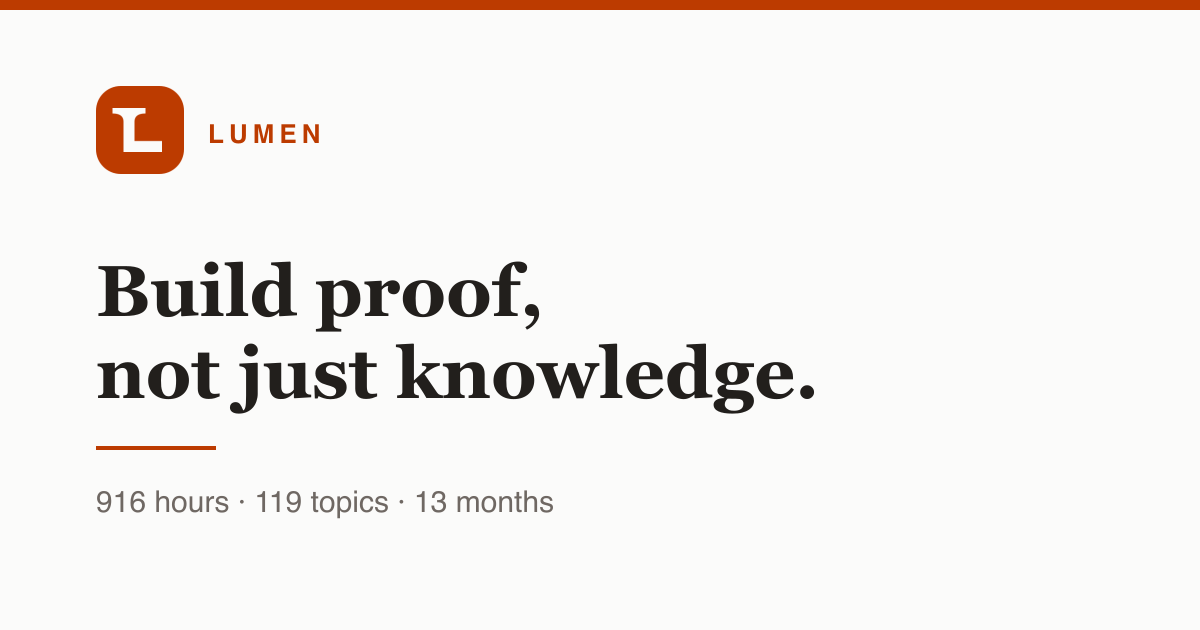
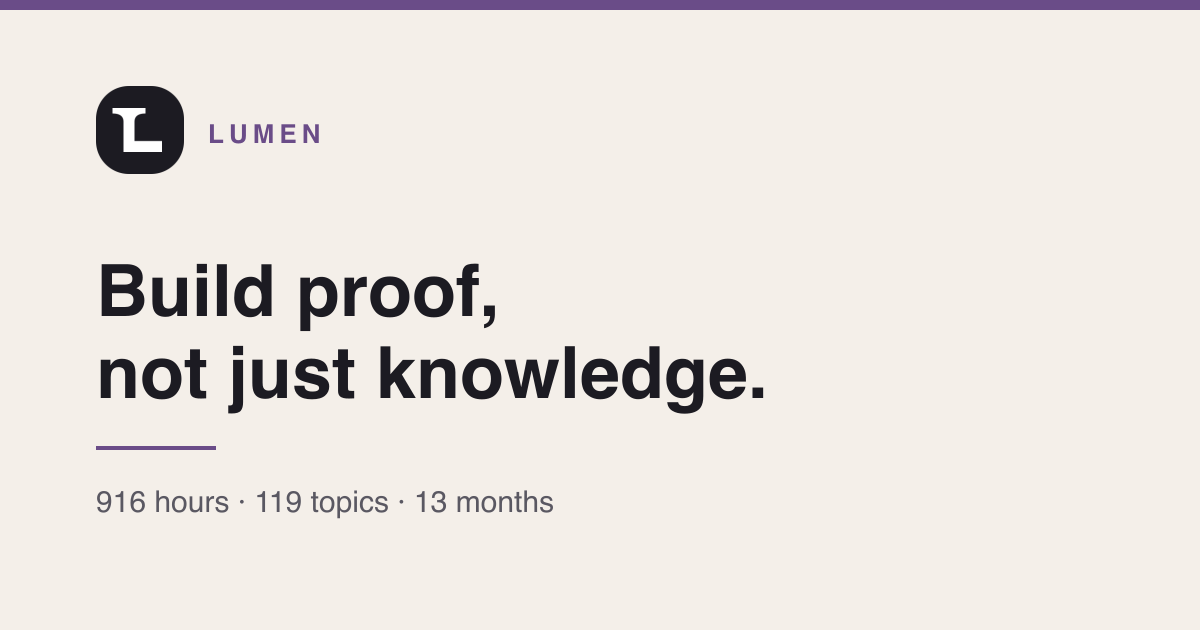
feat: switch the design system to Sorbet Tonal; full-height Ask panel
Replaces Ember Studio with Sorbet Tonal per Rasul's request. Four desaturated blobs —
lavender, peach, seafoam, cream — over a cream base, with pure paper-white cards on top;
the contrast between the soft canvas and the bright cards is the whole design. One
family (Manrope) with JetBrains Mono on eyebrows, metadata and table numerals. Mauve is
the only chromatic accent. Token names are unchanged so the ~200 existing rules keep
working; only the values move.

The gradient is painted on a fixed pseudo-element rather than as a body background: this
page runs to ~13,000px and a gradient sized to the document stretches the blobs to
invisibility. That also means body must stay transparent — an opaque background there
paints straight over the z-index:-1 layer and the gradient vanishes entirely, which is
exactly what happened on the first pass.

Ask Lumen is now a full-height right rail. It was pinned to max-height:600px, so on a
tall display it sat as a small box in the corner with two thirds of the reserved gutter
empty, while the shell was already reserving 478px for it.

Four departures from the Sorbet spec, all recorded in .impeccable.md:

- three colours darkened for AA. The spec grades its own accent-on-canvas FAIL (2.74:1)
  and suggests #7c5d9c, but that was measured on flat #F4EFE9. A gradient canvas has no
  single background: its darkest composited pixel is rgb(217,205,227), the lavender
[…]

diff --git a/app/globals.css b/app/globals.css
@@ -1,5 +1,17 @@
-@import url('https://fonts.googleapis.com/css2?family=Petrona:ital,wght@0,400..700;1,400&family=Source+Sans+3:wght@400;600&family=Fira+Code:wght@400&display=swap');
-:root{--bg:oklch(.985 .001 106.4);--surface:oklch(.970 .001 106.4);--surface-strong:oklch(.923 .003 48.7);--ink:oklch(.216 .006 56);--ink-2:oklch(.444 .010 73.6);--muted:oklch(.518 .012 58.1);--line:oklch(.869 .004 56.4);--line-strong:oklch(.611 .004 56.4);--primary:oklch(.535 .174 38.4);--primary-hover:oklch(.470 .143 37.3);--primary-soft:oklch(.94 .035 40);--accent:oklch(.769 .165 70.1);--accent-text:oklch(.520 .145 70.1);--teal:oklch(.498 .150 149.2);--brass:oklch(.522 .145 58.3);--danger:oklch(.538 .190 27.3);--sp-1:4px;--sp-2:8px;--sp-3:12px;--sp-4:16px;--sp-5:20px;--sp-6:24px;--sp-8:32px;--sp-10:40px;--sp-12:48px;--sp-16:64px;--r-sm:4px;--r-md:8px;--r-lg:12px;--r-pill:9999px;--shadow-card:0 4px 16px rgba(28,25,23,.06);--shadow-cta:0 4px 12px rgba(194,65,12,.25)}
+@import url('https://fonts.googleapis.com/css2?family=Manrope:wght@400;500;600;700&family=JetBrains+Mono:wght@400;500&display=swap');
+/* SORBET TONAL. Token names are unchanged so the ~200 rules below keep working; only
+   the values move. Three values deviate from the spec sheet, all in the same direction
+   and all forced by the gradient canvas — see .impeccable.md:
+     --muted      graphite #6B6973 is 5.39:1 on a white card but only 3.54:1 over the
+                  lavender blob, and much of this UI sets muted text straight on the
+                  canvas. Darkened until it clears 4.5:1 there too.
+     --accent-text the spec grades its own accent-on-canvas FAIL (2.74:1) and suggests
+                  #7c5d9c, but that was measured on flat #F4EFE9 and still fails over
+                  the lavender blob. Darkened further. #A088B8 survives as --accent for
+                  decorative fills only, never text.
+     --line-strong a hairline at rgba(28,27,34,.16) is ~1.5:1; control boundaries need
+                  3:1, so inputs and buttons get an opaque tone that clears it. */
+:root{--bg:#f4efe9;--surface:#ffffff;--surface-strong:#f0ebe5;--ink:#1c1b22;--ink-2:#3e3c46;--muted:#5a5862;--line:rgba(28,27,34,.10);--line-strong:#74727c;--primary:#1c1b22;--primary-hover:#34323d;--primary-soft:rgba(160,136,184,.18);--accent:#a088b8;--accent-text:#6a4c88;--teal:#2f6350;--brass:#6a4c88;--danger:#93313f;--sp-1:4px;--sp-2:8px;--sp-3:12px;--sp-4:16px;--sp-5:20px;--sp-6:24px;--sp-8:32px;--sp-10:40px;--sp-12:48px;--sp-16:64px;--r-sm:14px;--r-md:20px;--r-lg:28px;--r-pill:9999px;--shadow-card:0 18px 48px -24px rgba(40,35,60,.14),0 1px 3px rgba(40,35,60,.05);--shadow-cta:0 6px 18px -8px rgba(28,27,34,.22)}
 *{box-sizing:border-box}html{background:var(--bg)}body{margin:0;background:var(--bg);color:var(--ink);font-family:'Source Sans 3',ui-sans-serif,system-ui,sans-serif;font-size:16px;-webkit-font-smoothing:antialiased}button,input,select{font:inherit}button{cursor:pointer}.shell{max-width:1440px;margin:auto;padding:0 44px}.topbar{height:76px;border-bottom:1px solid var(--line);display:flex;align-items:center;justify-content:space-between}.brand{display:flex;gap:12px;align-items:center}.brand-mark{width:34px;height:34px;display:block;flex:none}.brand-name{font-weight:700;font-size:15px}.brand-sub,.top-actions{font-size:12px;color:var(--muted)}.top-actions{display:flex;align-items:center;gap:12px}.sync-dot{width:7px;height:7px;background:var(--teal);border-radius:50%;display:inline-block}.ghost-button,.text-button{border:0;background:transparent;color:var(--muted);padding:7px 0}.hero{display:flex;justify-content:space-between;gap:40px;padding:54px 0 42px}.kicker,.eyebrow{margin:0 0 10px;color:var(--primary);font-size:11px;font-weight:700;letter-spacing:.08em;text-transform:uppercase}.hero h1{font-size:42px;line-height:1.05;letter-spacing:-.045em;margin:0 0 14px;max-width:620px}.hero-copy{font-size:17px;line-height:1.55;color:var(--muted);max-width:610px;margin:0}.hero-note{align-self:end;min-width:300px;display:flex;gap:12px;align-items:flex-start;padding:16px 18px;background:var(--primary-soft);border-radius:12px}.note-pin{color:var(--primary);font-size:18px}.hero-note strong{font-size:13px}.hero-note p{margin:5px 0 0;color:var(--muted);font-size:12px}.tabs{display:flex;gap:27px;border-bottom:1px solid var(--line);margin-bottom:24px}.tab{border:0;background:none;color:var(--muted);padding:0 0 13px;position:relative}.tab.active{color:var(--ink);font-weight:700}.tab.active:after{content:'';height:2px;background:var(--primary);position:absolute;bottom:-1px;left:0;right:0}.metric-grid{display:grid;grid-template-columns:repeat(4,1fr);gap:12px;margin-bottom:12px}.metric{padding:18px 20px;border:1px solid var(--line);border-radius:12px;background:var(--surface);min-height:125px;display:flex;flex-direction:column}.metric-label,.metric-detail{color:var(--muted);font-size:12px}.metric strong{font-size:31px;letter-spacing:-.04em;margin:11px 0 5px}.metric.rose strong{color:var(--primary)}.metric.teal strong{color:var(--teal)}.metric.brass strong{color:var(--brass)}.content-grid{display:grid;grid-template-columns:1.35fr .65fr;gap:12px;margin-bottom:12px}.content-grid.lower{grid-template-columns:1.35fr .65fr}.panel{border:1px solid var(--line);border-radius:12px;background:#fff;padding:22px}.wide{min-width:0}.panel-head{display:flex;align-items:flex-start;justify-content:space-between;gap:20px;margin-bottom:24px}.panel-head h2{font-size:18px;margin:0;letter-spacing:-.025em}.panel-meta{color:var(--muted);font-size:12px}.bar-chart{height:210px;display:flex;align-items:end;gap:12px;padding:12px 4px 0;border-bottom:1px solid var(--line)}.bar-item{height:100%;flex:1;display:flex;flex-direction:column;justify-content:end;align-items:center;gap:7px}.bar-track{height:165px;width:100%;display:flex;align-items:end;background:var(--surface);border-radius:6px 6px 0 0;overflow:hidden}.bar-fill{width:100%;background:var(--primary);border-radius:6px 6px 0 0;min-height:15px}.bar-value,.bar-label{font-size:11px;color:var(--muted)}.chart-foot{display:flex;justify-content:space-between;color:var(--muted);font-size:11px;margin-top:12px}.legend-dot{display:inline-block;width:7px;height:7px;border-radius:50%;margin-right:5px}.rose{background:var(--primary)}.priority{color:var(--primary);font-weight:700;background:var(--primary-soft);padding:5px 8px;border-radius:6px;font-size:11px}.next-action{display:flex;gap:14px;padding:16px 0 20px}.action-index{font-size:12px;font-weight:700;color:var(--primary);padding-top:2px}.next-action h3{font-size:15px;line-height:1.3;margin:0 0 8px}.next-action p,.reality p{color:var(--muted);line-height:1.5;font-size:13px;margin:0 0 12px}.resource-link{color:var(--primary);text-decoration:none;font-size:12px;font-weight:600;display:inline-flex;gap:7px}.resource-link:hover{text-decoration:underline}.primary-button{width:100%;border:0;border-radius:8px;background:var(--ink);color:#fff;padding:12px 14px;text-align:left;display:flex;justify-content:space-between}.track-list{display:flex;flex-direction:column}.track-row{display:grid;grid-template-columns:1.5fr 75px 1fr 48px;gap:15px;align-items:center;padding:11px 0;border:0;border-top:1px solid var(--line);background:none;text-align:left;color:var(--ink)}.track-name{font-size:13px}.track-count,.track-hours{font-size:11px;color:var(--muted)}.track-progress,.mock-bar{height:5px;background:var(--surface-strong);border-radius:99px;overflow:hidden}.track-progress span,.mock-bar span{display:block;height:100%;background:var(--teal);border-radius:99px}.track-hours{text-align:right}.reality{background:var(--ink);color:#fff}.reality .eyebrow{color:#e4a5c1}.reality h2{margin-bottom:14px}.reality p{color:oklch(.78 .02 270)}.reality .text-button{color:#fff}.full-panel{margin-bottom:80px}.plan-head{align-items:center}.filters{display:flex;gap:8px;flex-wrap:wrap}.filters input,.filters select{border:1px solid var(--line-strong);background:#fff;border-radius:7px;padding:8px 10px;color:var(--ink);font-size:12px}.filters input{width:200px}.table-wrap{overflow:auto}table{width:100%;border-collapse:collapse;min-width:950px}th{text-align:left;font-size:11px;text-transform:uppercase;letter-spacing:.05em;color:var(--muted);font-weight:700;padding:0 12px 12px}td{border-top:1px solid var(--line);padding:14px 12px;vertical-align:top;color:var(--muted);font-size:12px}td:first-child{color:var(--ink);min-width:230px}td strong{display:block;font-size:13px;line-height:1.35;margin-bottom:6px}.status{font-size:10px;color:var(--muted);background:var(--surface);padding:3px 5px;border-radius:4px}.depth{min-width:230px;max-width:340px;line-height:1.45}.resource-stack{display:flex;gap:10px}.mock-grid{display:grid;gap:4px}.mock-row{display:grid;grid-template-columns:2fr 1fr 2fr;gap:22px;align-items:center;padding:16px 0;border-top:1px solid var(--line)}.mock-title{display:flex;justify-content:space-between;gap:12px}.mock-title strong{font-size:13px}.mock-title span{font-size:11px;color:var(--muted)}.mock-stats{display:flex;gap:12px;align-items:center}.mock-stats b{font-size:12px;white-space:nowrap}.mock-stats span{color:var(--muted);font-size:11px}.resource-grid{display:grid;grid-template-columns:repeat(2,1fr);gap:8px}.resource-card{display:grid;grid-template-columns:35px 1fr 20px;gap:12px;align-items:start;text-decoration:none;color:var(--ink);padding:17px;border:1px solid var(--line);border-radius:9px}.resource-card:hover{background:var(--surface)}.resource-number{color:var(--primary);font-size:12px;font-weight:700}.resource-card h3{font-size:13px;margin:0 0 6px}.resource-card p{font-size:12px;color:var(--muted);line-height:1.4;margin:0}.arrow{color:var(--primary)}.comp-list{display:grid;gap:0}.comp-row{display:grid;grid-template-columns:1fr 1.3fr 1fr;gap:25px;padding:20px 0;border-top:1px solid var(--line);align-items:center}.comp-market{font-size:11px;color:var(--primary);font-weight:700}.comp-row h3{font-size:14px;margin:7px 0 0}.comp-row p,.prob{font-size:12px;line-height:1.45;color:var(--muted);margin:0}.prob{padding:9px 11px;background:var(--surface);border-radius:7px}.prob-0,.prob-1{color:var(--danger)}.prob-2,.prob-3{color:var(--teal)}footer{display:flex;justify-content:space-between;color:var(--muted);font-size:11px;border-top:1px solid var(--line);padding:18px 0 30px}
 @media(max-width:850px){.shell{padding:0 20px}.top-actions{display:none}.hero{display:block;padding:38px 0 30px}.hero h1{font-size:34px}.hero-note{margin-top:25px}.metric-grid{grid-template-columns:repeat(2,1fr)}.content-grid,.content-grid.lower{grid-template-columns:1fr}.tabs{gap:18px;overflow:auto}.tab{white-space:nowrap}.resource-grid{grid-template-columns:1fr}.comp-row{grid-template-columns:1fr;gap:9px}.mock-row{grid-template-columns:1fr;gap:10px}footer{display:block}footer span{display:block;margin-bottom:5px}}
 @media(prefers-reduced-motion:reduce){*{scroll-behavior:auto!important;transition:none!important}}
@@ -51,7 +63,7 @@
 .table-wrap{background-image:linear-gradient(to right,var(--bg) 40%,transparent),linear-gradient(to left,var(--bg) 40%,transparent),linear-gradient(to right,oklch(.22 .025 270/.16),transparent),linear-gradient(to left,oklch(.22 .025 270/.16),transparent);background-position:left center,right center,left center,right center;background-size:26px 100%,26px 100%,18px 100%,18px 100%;background-repeat:no-repeat;background-attachment:local,local,scroll,scroll}
 /* Below ~1056px the 950px table overflows and its scrollbar sat thousands of px down the
    page. Box it so both scrollbars are in view, with a sticky header. Desktop untouched. */
-@media(max-width:1055px){.table-wrap{max-height:min(70svh,640px);overscroll-behavior:contain}.table-wrap thead th{position:sticky;top:0;z-index:1;background:var(--bg);padding:10px 12px;border-bottom:1px solid var(--line)}}
+@media(max-width:1055px){.table-wrap{max-height:min(70svh,640px);overscroll-behavior:contain}.table-wrap thead th{position:sticky;top:0;z-index:1;background:var(--surface);padding:10px 12px;border-bottom:1px solid var(--line)}}
 /* The only Ask trigger lived in .top-actions{display:none} at <=850px, so five tabs had no
    way to open the panel on a phone. */
 .ask-fab{display:none}
@@ -117,101 +129,171 @@ td .topic-toggle{margin-bottom:6px}
 .syllabus-deliverable{margin:0 0 8px}
 .syllabus-deliverable strong{color:var(--ink)}
 
+
 /* ============================================================
-   EMBER STUDIO — typography, components, states
-   Adapted per .impeccable.md: no coloured side stripes (Ember's
-   4px card/nav accents are the clearest AI-dashboard tell), and
-   Petrona replaces Playfair Display. Every text colour is the
-   lightest Ember tone that still clears WCAG AA on this canvas.
+   SORBET TONAL — gradient canvas, paper cards, one type family
+   Spec: DESIGN.md (Sorbet Tonal). Departures recorded in
+   .impeccable.md — the three AA-forced colour shifts noted in
+   :root above, plus compact density (which the spec's own
+   Density table sanctions for "information-dense dashboards"),
+   and disabled states muted by colour rather than opacity.
    ============================================================ */
 
-/* --- Typography: Petrona carries the craft, Source Sans 3 the work --- */
-h1,h2,h3,.brand-name,.metric strong,.quiz-copy strong{font-family:Petrona,Georgia,serif;font-weight:700;letter-spacing:-.02em}
-h1{font-size:2.75rem;line-height:1.08}
-h2{font-size:1.5rem;line-height:1.25}
-h3{font-size:1.0625rem;line-height:1.35}
-.hero h1{font-size:clamp(2.25rem,4.5vw,3.25rem)}
-.hero-copy{font-size:1.0625rem;line-height:1.6;max-width:62ch;color:var(--ink-2)}
-.kicker,.eyebrow,.quiz-label,.metric-label,.comp-market,.res-kind{font-size:11px;letter-spacing:.09em;text-transform:uppercase;font-weight:600}
-code,.mono{font-family:'Fira Code',ui-monospace,monospace;font-feature-settings:'liga' 1}
-td,.metric-detail,.track-count,.track-hours,.panel-meta,.status{font-size:13px}
-.depth,.syllabus ul,.syllabus ol,.syllabus-why{font-size:14px}
+/* --- The gradient is the identity. Four corner blobs, ~25% chroma, over cream.
+   Painted on a fixed pseudo-element rather than `background` on body: this page runs
+   to ~13,000px, and a gradient sized to the document would stretch the blobs to
+   invisibility. Fixed to the viewport, it reads as ambient light. --- */
+body::before{content:'';position:fixed;inset:0;z-index:-1;pointer-events:none;
+  background:
+    radial-gradient(at 8% 12%,rgba(195,178,222,.55) 0,transparent 42%),
+    radial-gradient(at 90% 18%,rgba(245,210,198,.55) 0,transparent 45%),
+    radial-gradient(at 78% 92%,rgba(196,224,215,.55) 0,transparent 48%),
+    radial-gradient(at 14% 88%,rgba(238,226,200,.50) 0,transparent 45%),
+    var(--bg)}
+/* body must stay transparent: an opaque background here paints straight over the
+   z-index:-1 pseudo-element and the gradient disappears. The base colour lives on
+   html so there is still a canvas colour before paint. */
+html{background:var(--bg)}
+body{background:transparent}
 
-/* --- Cards: warm surface, hairline, lift on hover. No stripes. --- */
-.panel,.metric,.book-row,.cur-topic,.assessment-card,.repo-row,.resource-card{
-  background:var(--surface);border:1px solid var(--line);border-radius:var(--r-lg);
-  transition:box-shadow 150ms ease,border-color 150ms ease,transform 150ms ease}
-.book-row:hover,.cur-topic:hover,.resource-card:hover{box-shadow:var(--shadow-card);border-color:var(--line-strong);transform:translateY(-2px)}
-.syllabus-subtopics li,.syllabus-primary li{background:var(--bg)}
+/* --- One family. Manrope carries everything; JetBrains Mono takes eyebrows,
+   metadata and table numerals, per the spec's typography pairing. --- */
+body{font-family:Manrope,ui-sans-serif,system-ui,sans-serif;font-size:.9375rem;letter-spacing:-.003em}
+h1,h2,h3,.brand-name,.metric strong,.quiz-copy strong{font-family:Manrope,ui-sans-serif,sans-serif;font-weight:600}
+h1{font-size:2.75rem;line-height:1.1;letter-spacing:-.028em}
+h2{font-size:1.5rem;line-height:1.3;letter-spacing:-.015em}
+h3{font-size:1.0625rem;line-height:1.35;letter-spacing:-.01em}
+.hero h1{font-size:clamp(2.5rem,5vw,4.75rem);line-height:1.05;letter-spacing:-.035em}
+.hero-copy{font-size:1.0625rem;line-height:1.7;max-width:66ch;color:var(--muted)}
+.kicker,.eyebrow,.quiz-label,.metric-label,.comp-market,.res-kind,th{
+  font-family:'JetBrains Mono',ui-monospace,monospace;font-size:10px;font-weight:500;
+  letter-spacing:.08em;text-transform:uppercase}
+.metric strong,.mock-stats b,.track-hours,.bar-value{font-variant-numeric:tabular-nums}
+code,.mono{font-family:'JetBrains Mono',ui-monospace,monospace}
+p,.depth,.syllabus ul,.syllabus ol{max-width:66ch}
+.hero-copy,.assessment-lead,.library-note{line-height:1.7}
 
-/* Ember marks the active thing in terracotta. Full border + warm tint, never a stripe. */
-.cur-topic:has(.syllabus),.syllabus-row td{background:var(--primary-soft);border-color:var(--primary)}
-.syllabus-row td{border-radius:0 0 var(--r-lg) var(--r-lg)}
+/* --- Cards: pure white on the gradient. The contrast IS the design — never tint,
+   never blur. Soft pillowy shadow, hairline at 10%. --- */
+.panel,.metric,.book-row,.cur-topic,.assessment-card,.repo-row,.resource-card,.quiz-strip,.ask-panel,.login-card{
+  background:var(--surface);border:1px solid var(--line);border-radius:var(--r-md);
+  box-shadow:var(--shadow-card)}
+.panel{border-radius:var(--r-lg);padding:26px}
+.metric{border-radius:var(--r-md);padding:20px}
+.assessment-card{border-radius:var(--r-md);border-top:1px solid var(--line)}
+.syllabus-subtopics li,.syllabus-primary li{background:var(--surface);border-radius:var(--r-sm);box-shadow:none}
+.prob,.answer-key,.empty-chat,.topic-chips span,.status{background:var(--surface-strong)}
+/* Mauve marks the expanded thing — the one chromatic accent, never a stripe. */
+.cur-topic:has(.syllabus),.syllabus-row td{background:var(--primary-soft)}
+.cur-topic:has(.syllabus){border-color:rgba(160,136,184,.5)}
 
-/* --- Buttons: one terracotta CTA per view, everything else recedes --- */
-.primary-button{background:var(--primary);border:1px solid var(--primary);color:#fff;border-radius:var(--r-md);font-weight:600;transition:background 150ms ease,box-shadow 150ms ease}
-.primary-button:hover{background:var(--primary-hover);box-shadow:var(--shadow-cta)}
-.quiz-action{background:var(--ink);border-color:var(--ink)}
-.quiz-action:hover{background:var(--primary);border-color:var(--primary);color:#fff}
-.ask-trigger{background:var(--primary-soft);color:var(--primary);border:1px solid transparent;border-radius:var(--r-pill);font-weight:600}
-.ask-trigger:hover{border-color:var(--primary)}
-.ask-fab{background:var(--primary);box-shadow:0 6px 20px rgba(194,65,12,.28)}
+.book-row:hover,.cur-topic:hover,.resource-card:hover{
+  box-shadow:0 16px 48px -16px rgba(160,136,184,.25);transform:translateY(-2px);
+  border-color:rgba(160,136,184,.5)}
+.panel,.metric,.book-row,.cur-topic,.resource-card,.tab,.primary-button,.quiz-option,.quiz-action{
+  transition:box-shadow 200ms cubic-bezier(.32,.72,0,1),transform 200ms cubic-bezier(.32,.72,0,1),
+    background 200ms cubic-bezier(.32,.72,0,1),border-color 200ms cubic-bezier(.32,.72,0,1)}
 
-/* --- Inputs: warm ring on focus, per Ember --- */
-.filters input,.filters select,.status-select,.login-form input,.weekly-input{border-radius:var(--r-md)}
-.filters input:focus-visible,.filters select:focus-visible,.status-select:focus-visible,.login-form input:focus-visible{
-  outline:none;border-color:var(--primary);box-shadow:0 0 0 3px rgba(194,65,12,.12)}
-.ask-form:focus-within{border-color:var(--primary);box-shadow:0 0 0 3px rgba(194,65,12,.12)}
+/* --- Buttons: four pill variants, never blended. Ink primary stays quiet so the
+   gradient stays the protagonist. --- */
+.primary-button,.quiz-action,.login-button,.ask-form button{
+  background:var(--primary);color:#fff;border:1px solid var(--primary);
+  border-radius:var(--r-pill);font-weight:600;font-size:.9375rem;letter-spacing:-.005em;
+  box-shadow:var(--shadow-cta)}
+.primary-button,.login-button{padding:13px 26px}
+.primary-button:hover,.quiz-action:hover,.login-button:hover{
+  transform:translateY(-1px);box-shadow:0 8px 24px -8px rgba(160,136,184,.35)}
+.primary-button:active,.login-button:active{transform:translateY(0) scale(.98)}
+.quiz-option,.suggestions button,.filters input,.filters select,.status-select{
+  background:var(--surface);color:var(--ink);border:1px solid var(--line-strong);
+  border-radius:var(--r-pill);font-weight:500}
+.quiz-option:hover,.suggestions button:hover{background:var(--primary-soft);border-color:rgba(160,136,184,.5);color:var(--accent-text)}
+.ask-trigger{background:var(--surface);color:var(--ink);border:1px solid var(--line-strong);border-radius:var(--r-pill);font-weight:500}
+.ask-trigger:hover{background:var(--primary-soft);border-color:rgba(160,136,184,.5)}
+.ghost-button,.text-button,.ask-row{color:var(--muted);font-weight:500;border-radius:var(--r-pill)}
+.ghost-button:hover,.text-button:hover,.ask-row:hover{text-decoration:underline}
+.filters input,.filters select,.status-select,.login-form input{border-radius:var(--r-sm)}
+.filters input:focus-visible,.filters select:focus-visible,.status-select:focus-visible,.login-form input:focus-visible,.ask-form:focus-within{
+  outline:none;border-color:rgba(160,136,184,.65);box-shadow:0 0 0 4px rgba(160,136,184,.15)}
+.ask-form{border-radius:var(--r-pill);border:1px solid var(--line-strong)}
+.ask-form button{width:34px;height:34px;padding:0;border-radius:50%}
+.ask-fab{background:var(--primary);border-radius:var(--r-pill);box-shadow:var(--shadow-cta)}
+
+/* The hero note sits directly on the gradient, not inside a card. A translucent mauve
+   tint there composites over the lavender blob and drags its text to 4.09:1 — and the
+   spec forbids tinted cards outright. It is paper white like every other card. */
+.hero-note{background:var(--surface);border:1px solid var(--line);border-radius:var(--r-md);box-shadow:var(--shadow-card)}
 
 /* --- Chips and pills --- */
-.topic-chips span,.status,.res-kind{border-radius:var(--r-pill)}
-.topic-chips span{background:var(--surface-strong);color:var(--ink-2);padding:4px 10px}
-.status{background:var(--surface-strong);color:var(--ink-2);padding:3px 9px}
-.res-read{background:var(--primary-soft);color:var(--primary)}
-.res-watch{background:oklch(.95 .05 149);color:var(--teal)}
-.res-do{background:oklch(.95 .05 70);color:var(--brass)}
+.topic-chips span,.status,.res-kind,.priority{border-radius:var(--r-pill);color:var(--ink-2)}
+.topic-chips span{padding:4px 10px}
+.status{padding:4px 10px}
+.priority{background:var(--primary-soft);color:var(--accent-text);font-weight:600}
+.res-read{background:var(--primary-soft);color:var(--accent-text)}
+.res-watch{background:rgba(196,224,215,.55);color:var(--teal)}
+.res-do{background:rgba(245,210,198,.55);color:#8a4a2f}
 
-/* --- Tabs: terracotta underline, warm hover --- */
-.tab:hover{background:var(--surface-strong);border-radius:var(--r-sm) var(--r-sm) 0 0}
-.tab.active{color:var(--primary)}
-.tab.active:after{background:var(--primary)}
+/* --- Tabs: mauve wash on the selected tab, no heavy underline --- */
+.tabs{border-bottom:1px solid var(--line)}
+.tab{color:var(--muted);font-weight:500;border-radius:var(--r-pill) var(--r-pill) 0 0;padding:0 12px 13px}
+.tab:hover{background:rgba(160,136,184,.08)}
+.tab.active{color:var(--accent-text);font-weight:600}
+.tab.active:after{background:var(--accent-text);height:2px}
 
-/* --- Progress --- */
-.track-progress span,.mock-bar span,.bar-fill{background:var(--primary)}
-.track-progress,.mock-bar{border-radius:var(--r-pill);height:4px}
+/* --- Charts and progress: mauve only, per the spec's palette --- */
+.bar-fill,.track-progress span,.mock-bar span{background:var(--accent);border-radius:var(--r-pill)}
+.bar-track{background:var(--surface-strong);border-radius:var(--r-sm) var(--r-sm) 0 0}
+.track-progress,.mock-bar{background:var(--surface-strong);border-radius:var(--r-pill);height:4px}
+.bar-chart{border-bottom:1px solid var(--line)}
+.sync-dot,.legend-dot.rose,.rose{background:var(--accent)}
+.metric.rose strong{color:var(--accent-text)}
+.metric.teal strong{color:var(--teal)}
+.metric.brass strong{color:var(--brass)}
+.metric.rose{background:var(--surface)}
+.note-pin,.action-index,.resource-number,.book-number,.arrow,.report-link,.message span,.sub-head strong:before,.syllabus h4,.assessment-toggle b{color:var(--accent-text)}
+.resource-link{color:var(--accent-text);font-weight:600}
 
-/* The chevron is the expand/collapse indicator, so it clears AA as text, not as
-   decoration: --muted on --surface-strong is only 4.43:1. --ink-2 is the same family. */
-.topic-toggle .chev{color:var(--ink-2)}
+/* --- The reality panel stays ink: it is the one place the product is blunt --- */
+.reality{background:var(--ink);color:#fff;border-radius:var(--r-lg)}
+.reality .eyebrow{color:#c7b4d8}
+.reality p{color:#c9c7d0}
+.reality .text-button{color:#fff}
 
-/* --- Muting is a colour, never opacity. Opacity dims text with the box and stacks. --- */
-.resource-link.no-link{color:var(--muted);opacity:1;cursor:default}
-.quiz-option.muted-option{opacity:1;background:var(--surface);color:var(--muted);border-color:var(--line)}
-/* Disabled controls too. Opacity dimmed the label and the field together and stacked
-   with whatever sat behind them; an explicit pair states "not available" and stays
-   legible. Applies to the sign-in button before both fields are filled. */
-.login-button:disabled,.ask-form button:disabled{opacity:1;background:var(--surface);color:var(--muted);border:1px solid var(--line-strong)}
-.quiz-option.correct{background:oklch(.95 .05 149);border-color:var(--teal);color:var(--teal)}
-.quiz-option.wrong{background:oklch(.96 .04 27);border-color:var(--danger);color:var(--danger)}
+/* --- Muting is a colour, never opacity: opacity dims the label with the box and
+   stacks with whatever sits behind it. Applies to disabled controls too. --- */
+.resource-link.no-link{color:var(--muted);opacity:1;cursor:default;font-weight:500}
+.quiz-option.muted-option{opacity:1;background:var(--surface-strong);color:var(--muted);border-color:var(--line-strong)}
+.quiz-option.correct{background:rgba(196,224,215,.5);border-color:var(--teal);color:var(--teal)}
+.quiz-option.wrong{background:rgba(233,196,200,.5);border-color:var(--danger);color:var(--danger)}
+.login-button:disabled,.ask-form button:disabled{opacity:1;background:var(--surface-strong);color:var(--muted);border:1px solid var(--line-strong);box-shadow:none;transform:none}
+.topic-toggle .chev{color:var(--ink-2);background:var(--surface-strong);border-radius:var(--r-sm)}
 
-/* --- Reality panel: warm ink, not cool --- */
-.reality{background:var(--ink)}
-.reality .eyebrow{color:var(--accent)}
-.reality p{color:oklch(.80 .01 60)}
+/* --- Focus: mauve ring everywhere --- */
+.brand-link:focus-visible,.ask-trigger:focus-visible,.tab:focus-visible,.primary-button:focus-visible,
+.topic-toggle:focus-visible,.text-button:focus-visible,.ask-row:focus-visible,.weekly-input:focus-visible,
+.quiz-option:focus-visible,.quiz-action:focus-visible{
+  outline:2px solid rgba(160,136,184,.85);outline-offset:3px}
 
-/* --- Focus: terracotta ring everywhere --- */
-.brand-link:focus-visible,.ask-trigger:focus-visible,.tab:focus-visible,.primary-button:focus-visible,.topic-toggle:focus-visible,.text-button:focus-visible,.ask-row:focus-visible{
-  outline:2px solid var(--primary);outline-offset:2px}
+/* --- Ask Lumen: a full-height right rail, not a 600px box floating in the corner.
+   The shell already reserves 478px at this width, so the panel fills the gutter
+   top to bottom instead of leaving two thirds of it empty. --- */
+@media(min-width:1201px){
+  .ask-panel{top:24px;bottom:24px;right:24px;max-height:none;height:auto;
+    width:430px;border-radius:var(--r-lg)}
+}
+@media(max-width:1200px){
+  .ask-panel{top:16px;bottom:16px;max-height:none;height:auto;border-radius:var(--r-lg)}
+}
+.messages{max-height:none;flex:1;min-height:0}
 
-/* The pace chart is 13 bars wide. Below ~600px it cannot compress further without the
-   hour labels colliding, so it scrolls inside its own panel instead of widening the
-   whole page — at 375px it was forcing a 447px document and a horizontal page scroll. */
+/* The pace chart is 13 bars wide; below ~600px it scrolls inside its own panel
+   rather than widening the page. */
 @media(max-width:600px){
   .bar-chart{gap:8px;overflow-x:auto;overscroll-behavior-x:contain;padding-bottom:8px}
   .bar-item{flex:0 0 32px}
 }
 
 @media(prefers-reduced-motion:reduce){
-  .book-row:hover,.cur-topic:hover,.resource-card:hover{transform:none}
+  .book-row:hover,.cur-topic:hover,.resource-card:hover,.primary-button:hover,.login-button:hover{transform:none}
   *{transition-duration:1ms!important}
 }

diff --git a/app/brand.tsx b/app/brand.tsx
@@ -16,8 +16,8 @@ export function LogoMark({ size = 34, className }: { size?: number; className?: 
       aria-label="Lumen"
       focusable="false"
     >
-      <rect width="32" height="32" rx="9" fill="var(--primary)" />
-      <path d="M6 8 H18 V10 Q14 10 14 13 V20 H24 V24 H10 V13 Q10 10 6 10 Z" fill="var(--bg)" />
+      <rect width="32" height="32" rx="12" fill="var(--primary)" />
+      <path d="M6 8 H18 V10 Q14 10 14 13 V20 H24 V24 H10 V13 Q10 10 6 10 Z" fill="var(--surface)" />
     </svg>
   );
 }

diff --git a/.impeccable.md b/.impeccable.md
@@ -15,20 +15,33 @@ rather than an analytics product: warm, worked-in, honest about the size of the 
 It never flatters. When 916 hours is 13 months, it says so.
 
 ### Aesthetic Direction
-**Ember Studio**, adapted. Terracotta warmth over stone neutrals, a serif/sans pairing
-carrying the craft, amber reserved for genuine attention. Light theme — this is used in
-daylight at a desk, and dark mode here would be costume.
+**Sorbet Tonal** (superseded Ember Studio, Sept 2026, at Rasul's request). A four-blob
+pastel gradient — lavender, peach, seafoam, cream, every stop held near 25% chroma —
+runs across the canvas; pure paper-white cards sit on top. The contrast between the soft
+gradient page and the bright white cards is the entire design. One family, Manrope, with
+JetBrains Mono for eyebrows, metadata and table numerals. Mauve is the only chromatic
+accent. Light theme.
 
-Two deliberate departures from the Ember file, both recorded so they are not mistaken
-for drift:
+Four recorded departures from the Sorbet spec sheet, so they are not mistaken for drift:
 
-1. **No coloured side stripes.** Ember specifies 4px left stripes on project cards, a
-   terracotta left border on selected cards and a 3px left accent bar on nav items.
-   That pattern is the most recognisable AI-dashboard tell. Ember's *intent* — terracotta
-   marks the active thing — is honoured with full borders, background tints and weight.
-2. **Petrona replaces Playfair Display.** Playfair is a training-data default. Petrona
-   is a warm variable serif with more character at heading sizes and far less ubiquity.
-   Source Sans 3 and Fira Code are kept exactly as Ember specifies.
+1. **Three colours darkened for AA.** The spec grades its own accent-on-canvas **FAIL**
+   (2.74:1) and suggests `#7c5d9c`, but that was measured against flat `#F4EFE9`. The
+   gradient's darkest composited pixel is `rgb(217,205,227)` — the lavender blob — and
+   `#7c5d9c` still fails there, as does the spec's `#6B6973` graphite for body text.
+   Both were darkened until they clear 4.5:1 against that worst-case pixel, and
+   `--line-strong` was made opaque so control boundaries reach 3:1. `#A088B8` survives
+   as `--accent` for decorative fills only, never text.
+2. **Compact density.** The spec's default is comfortable, but its own Density table
+   sanctions compact "for information-dense — tables, dashboards", which is what 119
+   rows and 2,236 syllabus parts are. Section gaps are dashboard-scale, not the
+   editorial 128px.
+3. **Disabled states muted by colour, not `opacity: 0.4`.** Opacity dims the label with
+   the box and stacks with whatever sits behind it. Nothing in this app uses fractional
+   opacity.
+4. **Two functional status colours beyond mauve.** The spec allows no second chromatic
+   accent, but success and danger are load-bearing here (topic status, comp-reality
+   probability). They are held to desaturated tones inside the sorbet family and are
+   never the only signal — status always carries a label too.
 
 **Anti-references** (from PRODUCT.md, still binding): no generic SaaS analytics wall,
 no decorative charts that carry no decision, no rainbow status colours, no motivational
@@ -37,16 +50,17 @@ copy that hides the real workload.
 ### Design Principles
 1. **Pace before volume.** How far behind or ahead he is matters more than totals.
 2. **The next action sits next to its evidence.** Never make him navigate to act.
-3. **Colour encodes state, never decoration.** Terracotta means active or interactive.
-   Amber means attention. Everything else is stone.
+3. **Colour encodes state, never decoration.** Mauve means active or interactive.
+   Everything else is ink or graphite; the gradient is ambience, never information.
 4. **Density is a feature.** 119 rows and 2,236 syllabus parts must stay scannable;
    whitespace is bought where it aids scanning, not sprinkled evenly.
-5. **WCAG AA is a hard floor.** Six of Ember's raw values fail as text on this canvas,
-   so text tokens are derived at the lightest value that still clears 4.5:1 (3:1 for
-   control boundaries). Opacity is never used to mute — muting is an explicit colour.
+5. **WCAG AA is a hard floor**, and on a gradient canvas that means measuring against
+   the *darkest* pixel the gradient produces, not the flat base colour. Text tokens are
+   derived at the lightest value that still clears 4.5:1 there (3:1 for control
+   boundaries). Opacity is never used to mute — muting is an explicit colour.
 
 ### The mark
-A bracketed serif **L** reversed out of a terracotta field — `app/icon.svg`, the single
+A bracketed serif **L** reversed out of an ink field (terracotta under Ember) — `app/icon.svg`, the single
 source of truth that `scripts/build-icons.mjs` derives the favicon, Apple icon and link
 preview from.
 
@@ -81,13 +95,16 @@ Two things this contract deliberately does **not** demand, so a later pass does 
   by their content and surface. Pushing every card edge to 3:1 turns 119 rows into a
   hard grid and buries the borders that do carry meaning. `--line-strong` (3:1+) is the
   token for anything a user can actually operate; `--line` is for decoration.
-- **Colour tokens are derived against the peach `--primary-soft` tint, not just the
-  canvas.** The "Current focus" card and expanded syllabus panels sit on that tint, and
-  it is *lighter* than the surface, so tokens that pass on cream can still fail there.
-  Every text token clears 4.5:1 on all three of `--bg`, `--surface` and `--primary-soft`.
+- **Colour tokens are derived against the worst background a token can land on**, not
+  the nominal one. Under Ember that was the peach `--primary-soft` tint; under Sorbet it
+  is the darkest gradient pixel, `rgb(217,205,227)`. Translucent tints sitting directly
+  on the canvas are the trap — that is why `.hero-note` is paper white, which is what the
+  Sorbet spec demands of cards anyway.
 
-Verified in-browser rather than by arithmetic: 189 rendered text/background combinations
-and 12 control boundaries across all 8 tabs, zero failures. Measure via canvas pixel
-readback — Chrome serialises computed `oklch()` colours as `oklch()`/`lab()`, so naive
-`rgb()` parsing silently reads the lightness as a red channel and reports everything
-as failing.
+Verified in-browser rather than by arithmetic: 212 rendered text/background combinations
+and 20 control boundaries across all 8 tabs, zero failures, judged against the darkest
+gradient pixel. Measure via canvas pixel readback — Chrome serialises computed colours
+as `oklch()`/`lab()`, so naive `rgb()` parsing silently reads the lightness as a red
+channel and reports everything as failing. To find the worst canvas pixel, repaint the
+CSS gradient stack onto a `<canvas>` and scan it; the pseudo-element carrying it is not
+reachable from `getComputedStyle`.
